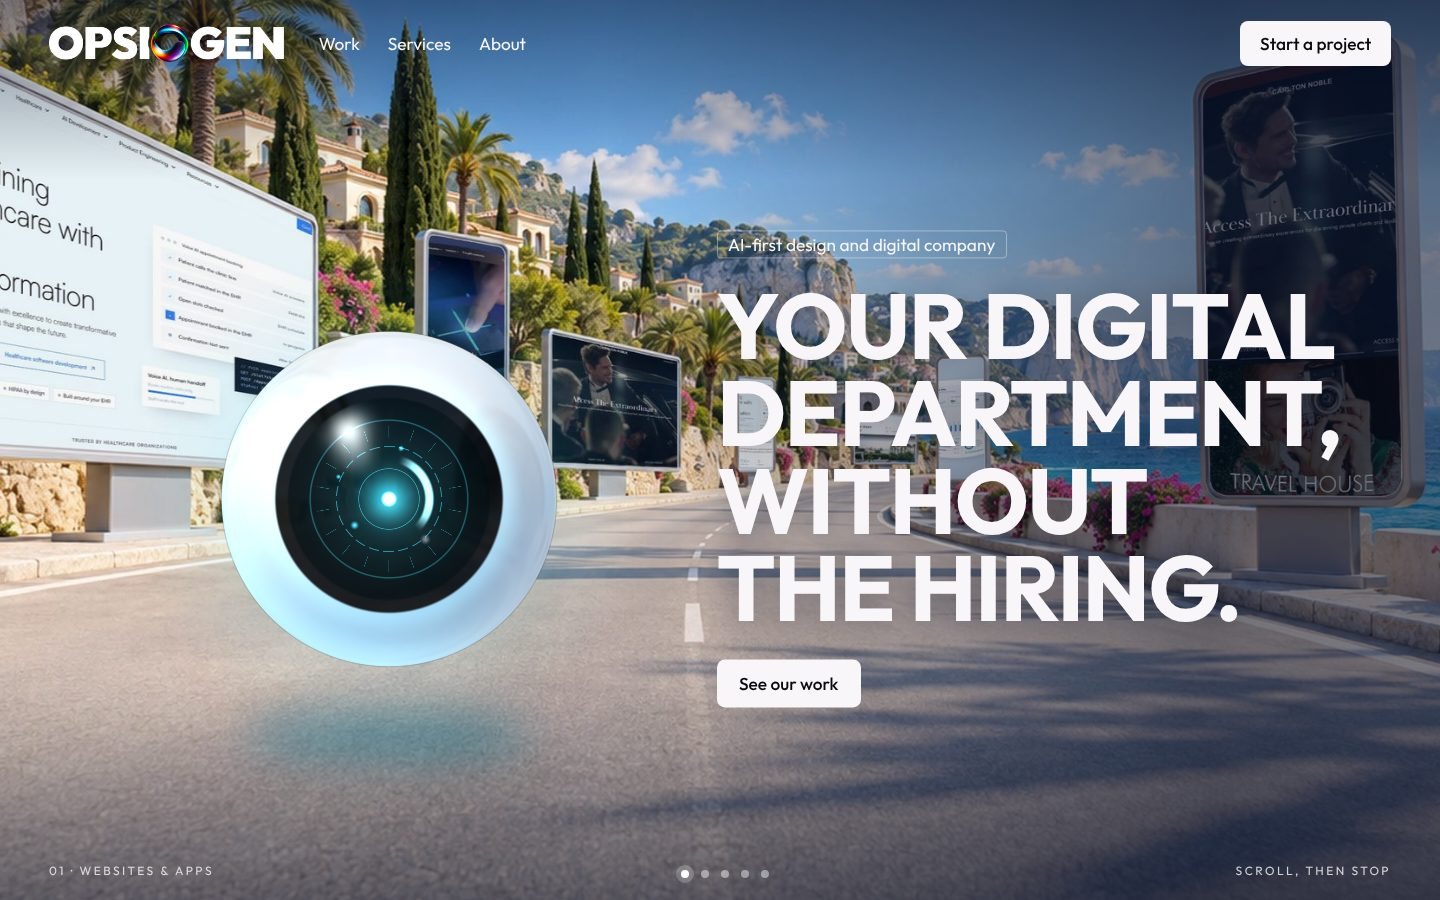
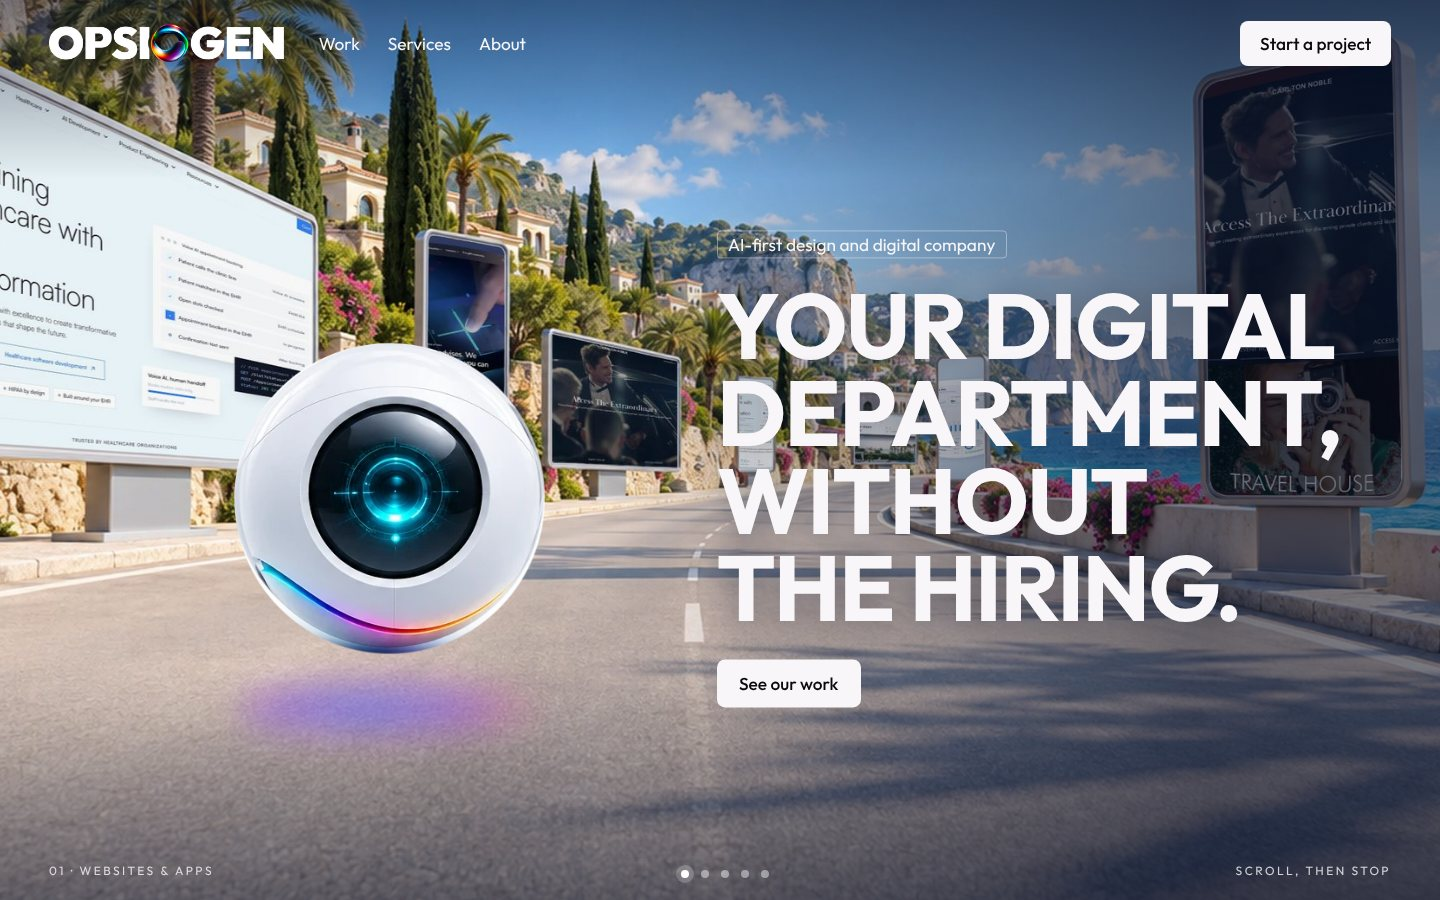
Hero prototype: the character is the owner's artwork, unchanged
Front view when it faces the visitor, back view while it looks ahead, the
three-quarter render for the turn between them.

Claude-Session: https://claude.ai/code/session_011BdSE2fEeiEv9ZgoYmWAPn

Changed region(s): [[0.125, 0.3422, 0.4062, 0.8711]]

diff --git a/design/hero/orb-proto/index.html b/design/hero/orb-proto/index.html
@@ -2,7 +2,7 @@
 <meta name="claude:viewport-fit-sides" content="cover">
 <link rel="stylesheet" href="https://fonts.googleapis.com/css2?family=Outfit:wght@400;500;700&display=swap">
 <style>
-  /* Layout: one pinned first screen. The world fills it; the sphere character is drawn live on top,
+  /* Layout: one pinned first screen. The world fills it; the character (the owner's artwork) sits on top,
      looks ahead while the page moves and turns to the visitor when it stops. One look, sunlit. */
   :root {
     --page: #0a090d;
@@ -37,14 +37,13 @@
   .go { display: inline-block; margin-top: clamp(18px, 3vh, 36px); background: var(--ink); color: var(--page); border-radius: 8px; padding: 0.8em 1.3em; font-weight: 500; font-size: clamp(15px, 1.2vw, 18px); text-decoration: none; }
   .go:focus-visible { outline: 2px solid #d8ff3e; outline-offset: 3px; }
 
-  /* the character: trail, soft shadow, and the live-drawn sphere */
+  /* the character: trail, soft shadow, and the owner's artwork */
   .orb { position: absolute; z-index: 4; left: 27%; top: 56%; width: clamp(150px, 25vw, 400px); aspect-ratio: 1; transform: translate(-50%, -50%); will-change: transform; }
-  .orb canvas { position: absolute; inset: 0; width: 100%; height: 100%; display: block; }
-  .ground { position: absolute; left: 16%; right: 16%; bottom: -24%; height: 13%; border-radius: 50%; background: rgb(10 14 30 / 0.5); filter: blur(16px); }
-  .aura { position: absolute; inset: -22%; border-radius: 50%; background: radial-gradient(circle, rgb(70 225 255 / 0.34) 30%, rgb(70 225 255 / 0.12) 52%, rgb(70 225 255 / 0) 70%); will-change: opacity, transform; }
-  .ground { background: rgb(0 110 140 / 0.42); left: 10%; right: 10%; height: 15%; filter: blur(20px); }
+  .orb img { position: absolute; inset: 0; width: 100%; height: 100%; object-fit: contain; display: block; will-change: opacity, transform; }
+  .ground { position: absolute; left: 8%; right: 8%; bottom: -17%; height: 17%; border-radius: 50%; filter: blur(18px);
+    background: radial-gradient(ellipse at 42% 50%, rgb(40 110 255 / 0.62), rgb(150 70 255 / 0.5) 45%, rgb(255 80 170 / 0.28) 62%, rgb(255 80 170 / 0) 76%); }
   .trail { position: absolute; z-index: 3; left: 27%; top: 56%; width: 80vw; height: clamp(120px, 20vw, 330px); transform-origin: 100% 50%; transform: translate(-100%, -50%) rotate(-16deg); opacity: 0; pointer-events: none; filter: blur(14px);
-    background: linear-gradient(180deg, rgb(255 60 60 / 0), #ff5a3c 12%, #ffb400 26%, #d8fa01 40%, #01f14c 54%, #00ecfd 68%, #9b1cf0 84%, rgb(155 28 240 / 0));
+    background: linear-gradient(180deg, rgb(0 230 255 / 0), #19d8ff 14%, #2f7bff 34%, #8a3cff 54%, #ff3ea5 74%, #ff8a1e 90%, rgb(255 138 30 / 0));
     -webkit-mask-image: linear-gradient(90deg, transparent, #000 55%, #000 92%, transparent); mask-image: linear-gradient(90deg, transparent, #000 55%, #000 92%, transparent); }
 
   .foot { position: absolute; z-index: 5; inset: auto 0 0; display: flex; align-items: flex-end; justify-content: space-between; gap: 16px; padding: 0 clamp(16px, 3.4vw, 65px) max(22px, env(safe-area-inset-bottom, 0px)); font-size: 12px; letter-spacing: 0.2em; text-transform: uppercase; color: var(--soft); }
@@ -78,7 +77,12 @@
     </div>
 
     <div class="trail" id="trail"></div>
-    <div class="orb" id="orb" aria-hidden="true"><div class="ground"></div><div class="aura" id="aura"></div><canvas id="ball" width="640" height="640"></canvas></div>
+    <div class="orb" id="orb" aria-hidden="true">
+      <div class="ground"></div>
+      <img id="vBack" src="img/back.webp" alt="">
+      <img id="vTurn" src="img/three-quarter.webp" alt="">
+      <img id="vFront" src="img/front.webp" alt="">
+    </div>
 
     <div class="words">
       <p class="pill">AI-first design and digital company</p>
@@ -100,88 +104,15 @@
 
 <script>
 (function () {
-  var canvas = document.getElementById("ball"), orb = document.getElementById("orb"), aura = document.getElementById("aura"), trail = document.getElementById("trail"),
-      world = document.getElementById("world"), rays = document.getElementById("rays");
+  // The character is the owner's artwork, unchanged: the front view faces the visitor, the back view looks at the road,
+  // and the three-quarter view is shown for a moment in between.
+  var orb = document.getElementById("orb"), trail = document.getElementById("trail"), world = document.getElementById("world"), rays = document.getElementById("rays"),
+      vFront = document.getElementById("vFront"), vTurn = document.getElementById("vTurn"), vBack = document.getElementById("vBack");
   var still = window.matchMedia("(prefers-reduced-motion: reduce)").matches;
-  var gl = canvas.getContext("webgl", { premultipliedAlpha: false, antialias: true });
-
-  var VS = "attribute vec2 a;void main(){gl_Position=vec4(a,0.,1.);}";
-  var FS = [
-    "precision highp float;",
-    "uniform vec2 uRes; uniform float uYaw, uPitch, uTime, uBlink, uOpen; uniform vec2 uLook; uniform sampler2D uEnv;",
-    "vec3 hue(float h){ return clamp(abs(mod(h*6.+vec3(0.,4.,2.),6.)-3.)-1.,0.,1.); }",
-    "void main(){",
-    "  vec2 p=(gl_FragCoord.xy-.5*uRes)/(.5*min(uRes.x,uRes.y)); float R=.94; float r=length(p)/R;",
-    "  if(r>1.){ gl_FragColor=vec4(0.); return; }",
-    "  vec3 n=vec3(p/R, sqrt(max(0.,1.-r*r)));",                      // surface normal, z toward the viewer
-    "  vec3 d=vec3(sin(uYaw)*cos(uPitch), sin(uPitch), cos(uYaw)*cos(uPitch));",   // where the eye points
-    "  vec3 rt=normalize(cross(vec3(0.,1.,0.),d)), up=cross(d,rt);",
-    "  float c=dot(n,d), ang=acos(clamp(c,-1.,1.));",
-    "  vec3 refl=reflect(vec3(0.,0.,-1.),n);",
-    "  vec3 env=texture2D(uEnv, vec2(.5+refl.x*.42, .5-refl.y*.42)).rgb;",
-    "  vec3 L=normalize(vec3(-.42,.72,.55)); float lam=dot(n,L);",
-    "  float fres=pow(1.-n.z,2.4); float E=.64;",                                   // E: the eye's size on the shell
-    "  vec3 GL=vec3(.25,.9,1.);",                                                   // the glow: a clear cyan
-    // a smooth, unmarked body: bright where the light falls, a soft cool grey-blue where it turns away
-    "  vec3 shell=mix(vec3(.60,.70,.80), vec3(.985,.99,1.), smoothstep(-.35,.95,lam));",
-    "  shell=mix(shell, vec3(.58,.72,.84), smoothstep(.15,-1.,n.y)*.42);",
-    "  shell=mix(shell, env*1.05, .03+.22*fres);",                                   // a faint reflection of the place it is in
-    "  vec3 H=normalize(L+vec3(0.,0.,1.)); float sp=max(0.,dot(n,H));",
-    "  shell+=vec3(1.)*(smoothstep(.34,.0,length(n.xy-vec2(-.34,.46)))*.13+pow(sp,90.)*.5);",   // a wide soft sheen and one small glint
-    "  shell=mix(shell, vec3(.90,.96,1.), smoothstep(.78,1.,r)*.28);",              // the glossy edge, with no line in it
-    "  shell+=GL*smoothstep(.5,1.,r)*smoothstep(.35,-.75,n.x*.8+n.y*.6)*.20;",       // cyan light wrapping the lower left edge
-    "  shell+=GL*exp(-pow((ang-E-.10)/.13,2.))*.13;",                                // and a breath of it on the body beside the eye
-    "  vec3 col=shell;",
-    "  col=mix(col, vec3(.035,.05,.065)+env*.10, smoothstep(E+.11,E+.085,ang));",    // a thick dark rim round the eye
-    // the eye: a dark glass dome with instrument light deep inside
-    "  vec3 glass=vec3(.008,.035,.05)+env*(.05+.30*fres);",
-    "  vec2 e=vec2(dot(n,rt),dot(n,up))/sin(E); float ed=length(e);",               // inside the eye: 0 centre, 1 edge
-    "  vec2 c2=e-uLook*.9; float cd=length(c2), ca=atan(c2.y,c2.x);",               // the instrument turns toward what it looks at
-    "  glass+=GL*exp(-pow(cd/.62,2.))*.20;",                                         // a soft pool of light
-    "  glass+=GL*smoothstep(.014,.0,abs(cd-.78))*.30;",
-    "  glass+=GL*smoothstep(.010,.0,abs(cd-.52))*step(.3,fract(ca*3.5+uTime*.06))*.45;",
-    "  glass+=GL*smoothstep(.008,.0,abs(cd-.30))*.4;",
-    "  glass+=GL*smoothstep(.016,.0,abs(fract(ca*2.86)-.5)*cd)*step(.60,cd)*step(cd,.72)*.35;",   // ticks
-    "  float arc=smoothstep(.055,.02,abs(cd-.40))*smoothstep(.45,.95,cos(ca+.25-sin(uTime*.5)*.5));",
-    "  glass+=mix(GL,vec3(1.),.55)*arc*1.25;",                                       // the bright crescent
-    "  glass+=GL*(smoothstep(.05,.0,length(c2-vec2(-.34,-.26)))+smoothstep(.035,.0,length(c2-vec2(.12,.5)))+smoothstep(.03,.0,length(c2-vec2(-.5,.22))))*.9;",   // small lights
-    "  float S=.07+uOpen*.02+.006*sin(uTime*1.6);",
-    "  glass+=GL*exp(-pow(cd/(S*2.4),2.))*.7+vec3(1.)*smoothstep(S,S*.5,cd);",       // the pupil
-    "  glass+=vec3(1.)*(smoothstep(.30,.0,length(e-vec2(-.34,.46)))*.34+smoothstep(.06,.0,length(e-vec2(.36,-.4)))*.4);",   // reflections on the dome
-    "  glass+=vec3(1.)*pow(sp,160.)*.9;",
-    "  float lid=smoothstep(0.,.03, abs(dot(n,up))-(1.-uBlink)*sin(E)*1.02);",      // the lids, for a blink
-    "  glass=mix(glass, shell*.93, lid);",
-    "  col=mix(col, glass, smoothstep(E+.012,E-.012,ang));",
-    "  float a=smoothstep(1.,.985,r);",
-    "  gl_FragColor=vec4(col,a);",
-    "}"].join("\n");
-
-  var prog, U = {}, ready = false;
-  if (gl) {
-    var sh = function (t, src) { var s = gl.createShader(t); gl.shaderSource(s, src); gl.compileShader(s); return s; };
-    prog = gl.createProgram(); gl.attachShader(prog, sh(gl.VERTEX_SHADER, VS)); gl.attachShader(prog, sh(gl.FRAGMENT_SHADER, FS)); gl.linkProgram(prog);
-    if (gl.getProgramParameter(prog, gl.LINK_STATUS)) {
-      gl.useProgram(prog);
-      var buf = gl.createBuffer(); gl.bindBuffer(gl.ARRAY_BUFFER, buf); gl.bufferData(gl.ARRAY_BUFFER, new Float32Array([-1, -1, 1, -1, -1, 1, 1, 1]), gl.STATIC_DRAW);
-      var loc = gl.getAttribLocation(prog, "a"); gl.enableVertexAttribArray(loc); gl.vertexAttribPointer(loc, 2, gl.FLOAT, false, 0, 0);
-      ["uRes", "uYaw", "uPitch", "uTime", "uBlink", "uOpen", "uLook", "uEnv"].forEach(function (k) { U[k] = gl.getUniformLocation(prog, k); });
-      gl.enable(gl.BLEND); gl.blendFunc(gl.SRC_ALPHA, gl.ONE_MINUS_SRC_ALPHA);
-      var tex = gl.createTexture(); gl.bindTexture(gl.TEXTURE_2D, tex);
-      gl.texImage2D(gl.TEXTURE_2D, 0, gl.RGBA, 1, 1, 0, gl.RGBA, gl.UNSIGNED_BYTE, new Uint8Array([150, 190, 235, 255]));
-      var im = new Image(); im.onload = function () {
-        gl.bindTexture(gl.TEXTURE_2D, tex); gl.texImage2D(gl.TEXTURE_2D, 0, gl.RGBA, gl.RGBA, gl.UNSIGNED_BYTE, im);
-        gl.texParameteri(gl.TEXTURE_2D, gl.TEXTURE_WRAP_S, gl.CLAMP_TO_EDGE); gl.texParameteri(gl.TEXTURE_2D, gl.TEXTURE_WRAP_T, gl.CLAMP_TO_EDGE);
-        gl.texParameteri(gl.TEXTURE_2D, gl.TEXTURE_MIN_FILTER, gl.LINEAR); gl.texParameteri(gl.TEXTURE_2D, gl.TEXTURE_MAG_FILTER, gl.LINEAR);
-      }; im.src = "img/env.jpg";
-      ready = true;
-    }
-  }
-
-  // state
-  var AHEAD = 1.74;                      // eye turned into the scene: only its edge shows
-  var yaw = still ? 0 : 0, pitch = 0, speed = 0, lastY = window.scrollY, lastMove = -1e9, look = [0, 0], want = [0, 0], open = 0, blinkAt = 2.5, blink = 0;
+  var turn = 0, speed = 0, lastY = window.scrollY, lastMove = -1e9, want = [0, 0], lean = [0, 0];
   window.addEventListener("scroll", function () { var y = window.scrollY; speed += Math.min(60, Math.abs(y - lastY)); lastY = y; lastMove = performance.now(); }, { passive: true });
   window.addEventListener("pointermove", function (e) { var r = orb.getBoundingClientRect(); want = [(e.clientX - (r.left + r.width / 2)) / window.innerWidth, (e.clientY - (r.top + r.height / 2)) / window.innerHeight]; }, { passive: true });
+  function clamp(v) { return v < 0 ? 0 : v > 1 ? 1 : v; }
 
   var prev = performance.now();
   function frame(now) {
@@ -189,27 +120,16 @@
     var moving = !still && now - lastMove < 260;
     speed *= Math.pow(0.02, dt);                                        // eases off after the last scroll
     var v = still ? 0 : Math.min(1, speed / 90);
-    var ty = moving ? AHEAD : want[0] * 0.55, tp = moving ? 0.05 : -want[1] * 0.45;
-    yaw += (ty - yaw) * (1 - Math.pow(0.0012, dt)); pitch += (tp - pitch) * (1 - Math.pow(0.002, dt));
-    var lx = Math.max(-0.3, Math.min(0.3, want[0] * 0.9)), ly = Math.max(-0.3, Math.min(0.3, -want[1] * 0.9));
-    look[0] += ((moving ? 0 : lx) - look[0]) * 0.12; look[1] += ((moving ? 0 : ly) - look[1]) * 0.12;
-    open += ((moving ? 0 : 1) - open) * 0.06;                            // the pupil opens a little when it turns to you
-    if (!moving && t > blinkAt) { blink = 1; blinkAt = t + 2.6 + Math.random() * 3; }
-    blink = Math.max(0, blink - dt * 7);
-    var bob = still ? 0 : Math.sin(t * 1.7) * 6, lean = v * 10;
-    orb.style.transform = "translate(-50%,-50%) translate(" + (lean * 0.6).toFixed(1) + "px," + (bob - lean * 0.3).toFixed(1) + "px) rotate(" + (v * -4).toFixed(2) + "deg)";
+    turn += ((moving ? 1 : 0) - turn) * (1 - Math.pow(0.0006, dt));     // 0 faces the visitor, 1 looks ahead
+    vFront.style.opacity = (1 - clamp(turn / 0.5)).toFixed(3);
+    vTurn.style.opacity = (turn < 0.5 ? 1 : 1 - clamp((turn - 0.5) / 0.5)).toFixed(3);
+    vBack.style.opacity = turn >= 0.5 ? "1" : "0";
+    lean[0] += ((moving ? 0 : want[0]) - lean[0]) * 0.08; lean[1] += ((moving ? 0 : want[1]) - lean[1]) * 0.08;   // it leans a little toward the pointer
+    var bob = still ? 0 : Math.sin(t * 1.7) * 6, push = v * 10, squash = 1 - 0.08 * Math.sin(Math.PI * turn);
+    orb.style.transform = "translate(-50%,-50%) translate(" + (push * 0.6 + lean[0] * 22).toFixed(1) + "px," + (bob - push * 0.3 + lean[1] * 14).toFixed(1) + "px) rotate(" + (v * -4 + lean[0] * 7).toFixed(2) + "deg) scaleX(" + squash.toFixed(3) + ")";
     trail.style.opacity = (v * 0.9).toFixed(3);
-    aura.style.opacity = (0.75 + 0.25 * Math.sin(t * 1.3) + v * 0.4).toFixed(3); aura.style.transform = "scale(" + (1 + v * 0.12).toFixed(3) + ")";
     world.style.transform = "scale(" + (1 + v * 0.07).toFixed(4) + ")";
     rays.style.opacity = (v * 0.4).toFixed(3); rays.style.transform = "scale(" + (1 + ((t * 1.4) % 1) * 0.25).toFixed(3) + ")";
-    if (ready) {
-      var w = canvas.clientWidth * Math.min(2, window.devicePixelRatio || 1) | 0;
-      if (canvas.width !== w && w > 0) { canvas.width = w; canvas.height = w; }
-      gl.viewport(0, 0, canvas.width, canvas.height); gl.clearColor(0, 0, 0, 0); gl.clear(gl.COLOR_BUFFER_BIT);
-      gl.uniform2f(U.uRes, canvas.width, canvas.height); gl.uniform1f(U.uYaw, yaw); gl.uniform1f(U.uPitch, pitch); gl.uniform1f(U.uTime, t);
-      gl.uniform1f(U.uBlink, Math.sin(Math.min(1, blink) * Math.PI)); gl.uniform2f(U.uLook, look[0], look[1]); gl.uniform1f(U.uOpen, open); gl.uniform1i(U.uEnv, 0);
-      gl.drawArrays(gl.TRIANGLE_STRIP, 0, 4);
-    }
     requestAnimationFrame(frame);
   }
   requestAnimationFrame(frame);

diff --git a/design/hero/character/cut.py b/design/hero/character/cut.py
@@ -1,0 +1,30 @@
+"""Cut the owner's character renders out of their white background, unchanged, so they can sit on any scene."""
+import numpy as np, cv2
+from PIL import Image
+
+def cut(img, name, pad=10):
+    a = np.array(img.convert('RGB')).astype(int); H, W = a.shape[:2]
+    m = (a.min(axis=2) < 249).astype('uint8')
+    m = cv2.morphologyEx(m, cv2.MORPH_CLOSE, np.ones((5, 5), 'uint8'))
+    cs, _ = cv2.findContours(m, cv2.RETR_EXTERNAL, cv2.CHAIN_APPROX_NONE); c = max(cs, key=cv2.contourArea)[:, 0, :]
+    y0 = c[:, 1].min(); h = c[:, 1].max() - y0
+    top = c[c[:, 1] < y0 + 0.42 * h].astype(float)              # the outline above the shadow: an arc of the sphere
+    A = np.c_[2 * top[:, 0], 2 * top[:, 1], np.ones(len(top))]; b = (top ** 2).sum(axis=1)
+    cx, cy, k = np.linalg.lstsq(A, b, rcond=None)[0]; R = np.sqrt(k + cx * cx + cy * cy)
+    yy, xx = np.mgrid[0:H, 0:W]; dist = np.hypot(xx - cx, yy - cy)
+    alpha = np.clip((R - 1.2 - dist) / 1.6 + 0.5, 0, 1)        # the sphere, with a soft edge
+    dark = (a.max(axis=2) < 150) & (dist < R * 1.12) & (yy < cy + R * 0.7)   # the eye's dome where it stands proud of the outline, never the shadow underneath
+    dark = cv2.GaussianBlur(cv2.dilate(dark.astype('uint8'), np.ones((3, 3), 'uint8')).astype('float32'), (0, 0), 0.8)
+    alpha = np.maximum(alpha, dark)
+    out = np.dstack([a, (alpha * 255)]).astype('uint8')
+    x0, x1, y0b, y1 = int(cx - R * 1.13 - pad), int(cx + R * 1.13 + pad), int(cy - R * 1.13 - pad), int(cy + R * 1.13 + pad)
+    im = Image.fromarray(out, 'RGBA').crop((max(0, x0), max(0, y0b), min(W, x1), min(H, y1)))
+    side = max(im.size); sq = Image.new('RGBA', (side, side), (255, 255, 255, 0)); sq.paste(im, ((side - im.width) // 2, (side - im.height) // 2))
+    sq.save(name + '.webp', quality=92, method=6); print(name, 'centre', round(cx), round(cy), 'radius', round(R), sq.size)
+    return sq
+
+hero = Image.open('source-hero.webp'); cut(hero, 'three-quarter')
+sheet = Image.open('source-views.webp')
+cells = {'front': (60, 60, 520, 520), 'back-left': (1020, 60, 1480, 520),
+         'side': (60, 520, 520, 1010), 'back': (540, 520, 1000, 1010), 'above': (1020, 520, 1480, 1010)}
+for name, box in cells.items(): cut(sheet.crop(box), name)

diff --git a/LAUNCH-CHECKLIST.md b/LAUNCH-CHECKLIST.md
@@ -42,7 +42,7 @@ Tick items as they are done.
 - [ ] Backup plan, only after the owner confirms: keep the earlier big heading that fills the first screen and put moving work behind it. Two rows of our work tiles (images and short silent loops, mixed widths, one height) drift slowly sideways on the dark band, as on the reference the owner shared (Envato's AI video page). Use our own work and our own layout, not theirs. No image or video credits needed.
 - [ ] Also tried, waiting for the owner's pick: a ribbon of our work cards that lands on a tilted board on scroll (working prototype in `design/hero/cards-proto`, no credits needed), and our own character running through the studio rooms, each room one service (`design/hero/character-lineup.png`, `character-hero-mock.jpg`; needs video credits).
 - [ ] Latest direction from the owner (17 Nov): outdoors only, no studio. A floating sphere character with one glass eye flies through five outdoor worlds, one per service (`design/hero/orb-character-sheet.png`, `orb-hero-mock.jpg`, `worlds-all.jpg`). The worlds were drawn with an earlier octopus stand-in and need redrawing with the sphere. Needs video credits.
-- [ ] Owner's notes on that direction (17 Nov): the character looks ahead at the location while the page scrolls and turns to face the visitor when scrolling stops (working prototype in `design/hero/orb-proto`, the sphere is drawn live in the browser); no logo on the character: a smooth white sphere with a dark glass eye and a soft cyan glow, no lines or marks on the body, after the owner's reference picture; no designs on roadside screens, each location shows a service as it appears in real life (`scene-brand-cyclist.png`, `scene-booth.png`).
+- [ ] Owner's notes on that direction (17 Nov): the character looks ahead at the location while the page scrolls and turns to face the visitor when scrolling stops (working prototype in `design/hero/orb-proto`); no logo on the character: the character is the owner's own artwork, used unchanged (`design/hero/character`: source renders and cut-out views); no designs on roadside screens, each location shows a service as it appears in real life (`scene-brand-cyclist.png`, `scene-booth.png`).
 - Home today shows the trial picture of the glass studio (day in the light theme, night in the dark theme).
 
 ## Already done (4 November 2026)
